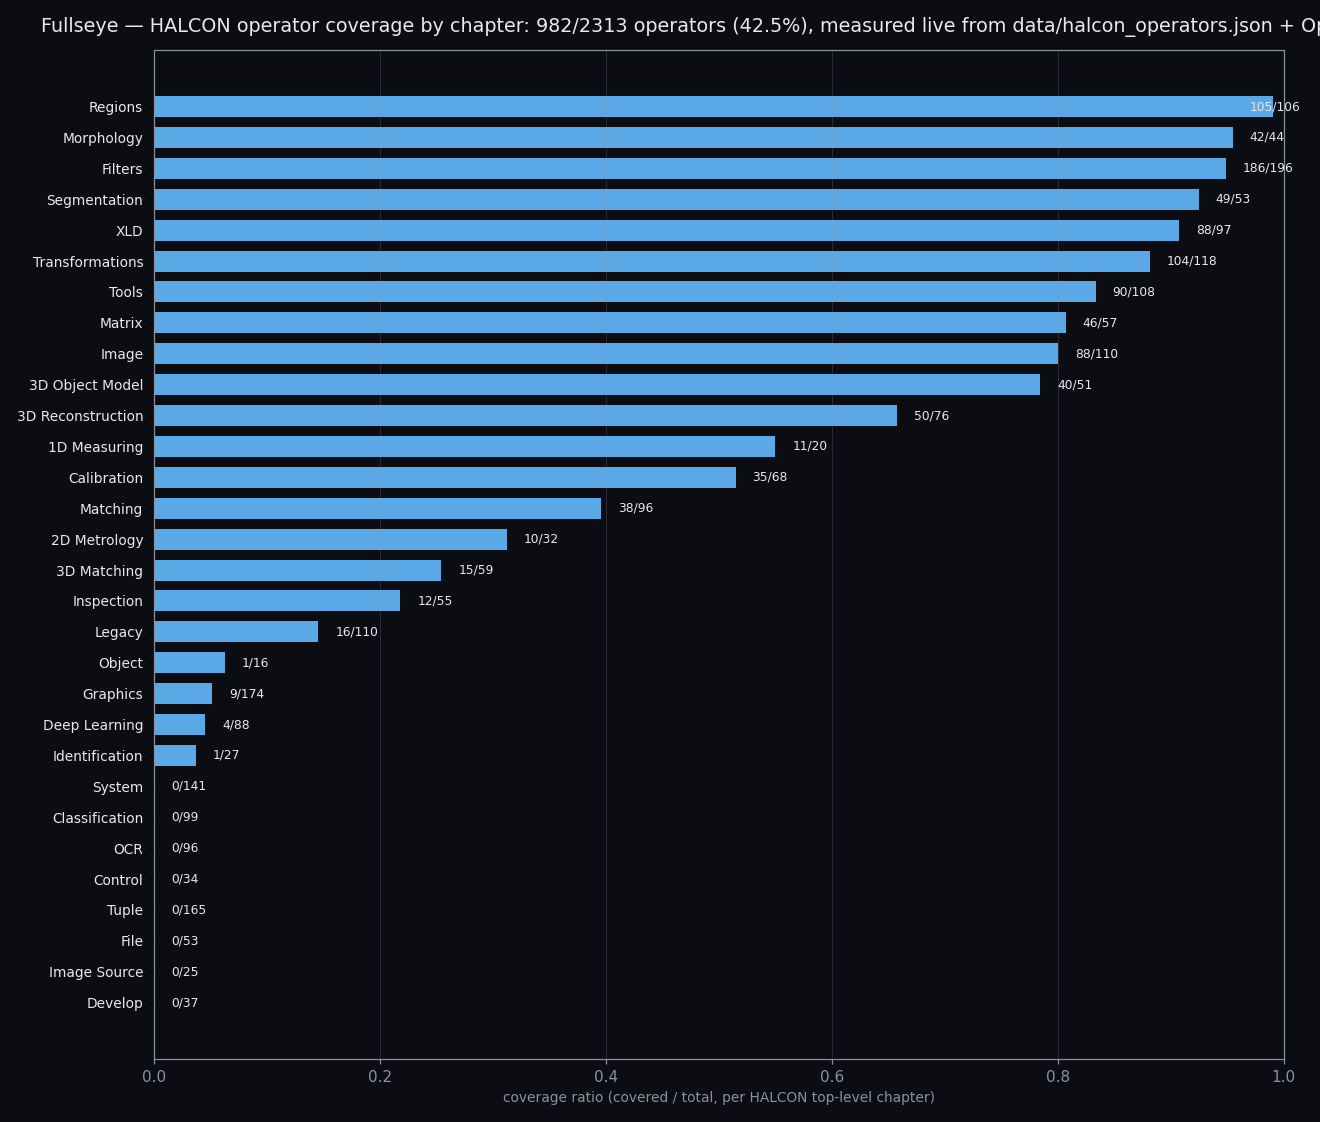
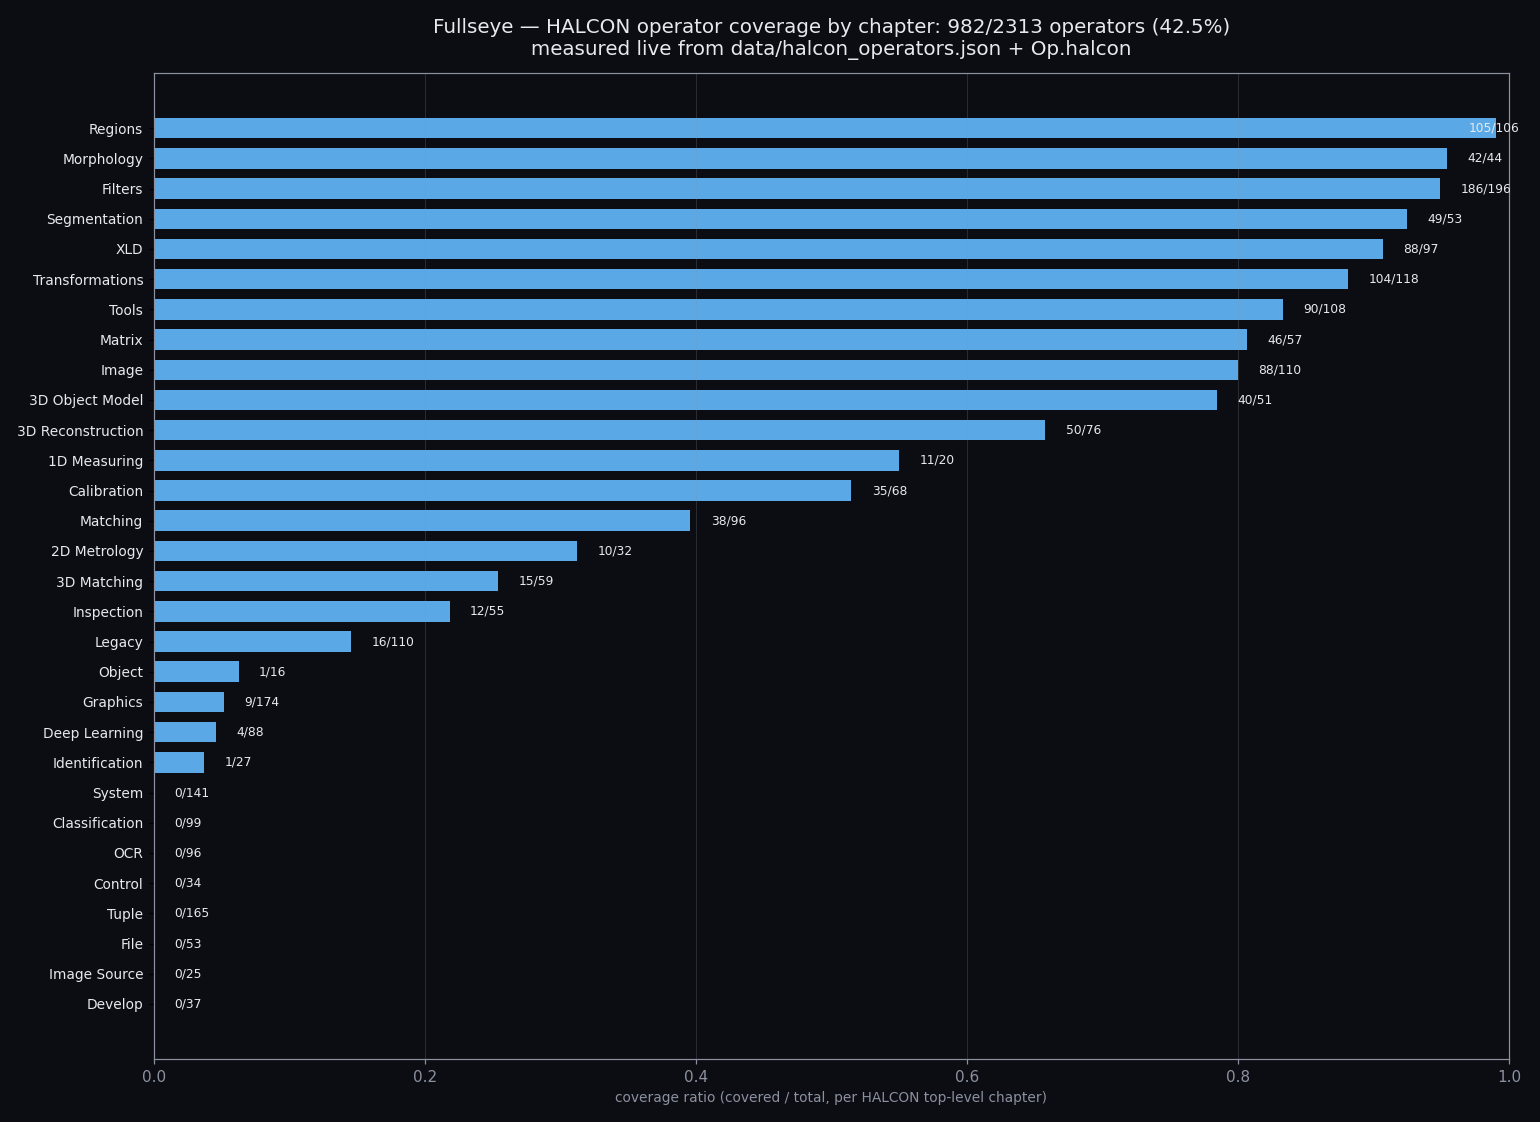
auto: gen_showcase_gifs.py 編集前 (2026-08-30 16:11)

diff --git a/tools/gen_article_assets.py b/tools/gen_article_assets.py
@@ -850,8 +850,9 @@ def build_halcon_coverage_chart(log=print) -> dict:
                 color=fg, fontsize=8)
 
     ax.set_title(f"Fullseye — HALCON operator coverage by chapter: "
-                 f"{n_cov}/{n_real} operators ({pct:.1f}%), measured live from "
-                 f"data/halcon_operators.json + Op.halcon", color=fg, fontsize=12.5, pad=12)
+                 f"{n_cov}/{n_real} operators ({pct:.1f}%)\n"
+                 f"measured live from data/halcon_operators.json + Op.halcon",
+                 color=fg, fontsize=13, pad=12)
     fig.tight_layout()
     out_path = os.path.join(ASSETS_DIR, "halcon_coverage_chart.png")
     fig.savefig(out_path, dpi=110, facecolor=bg)
